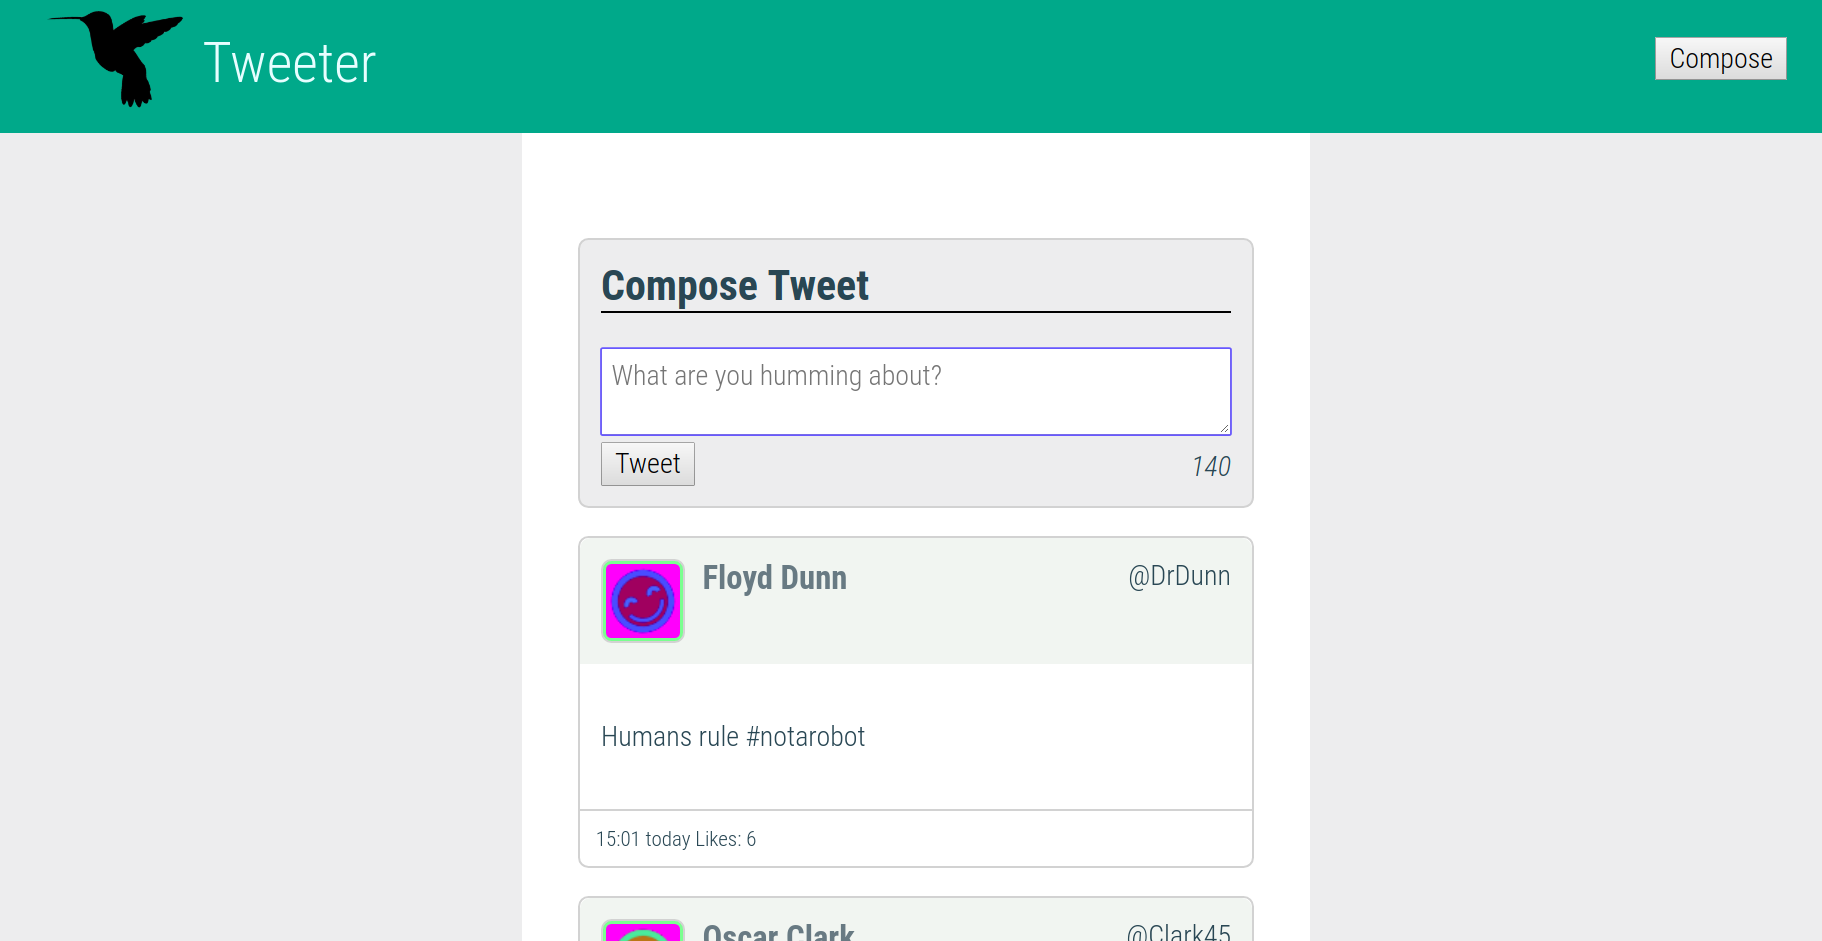
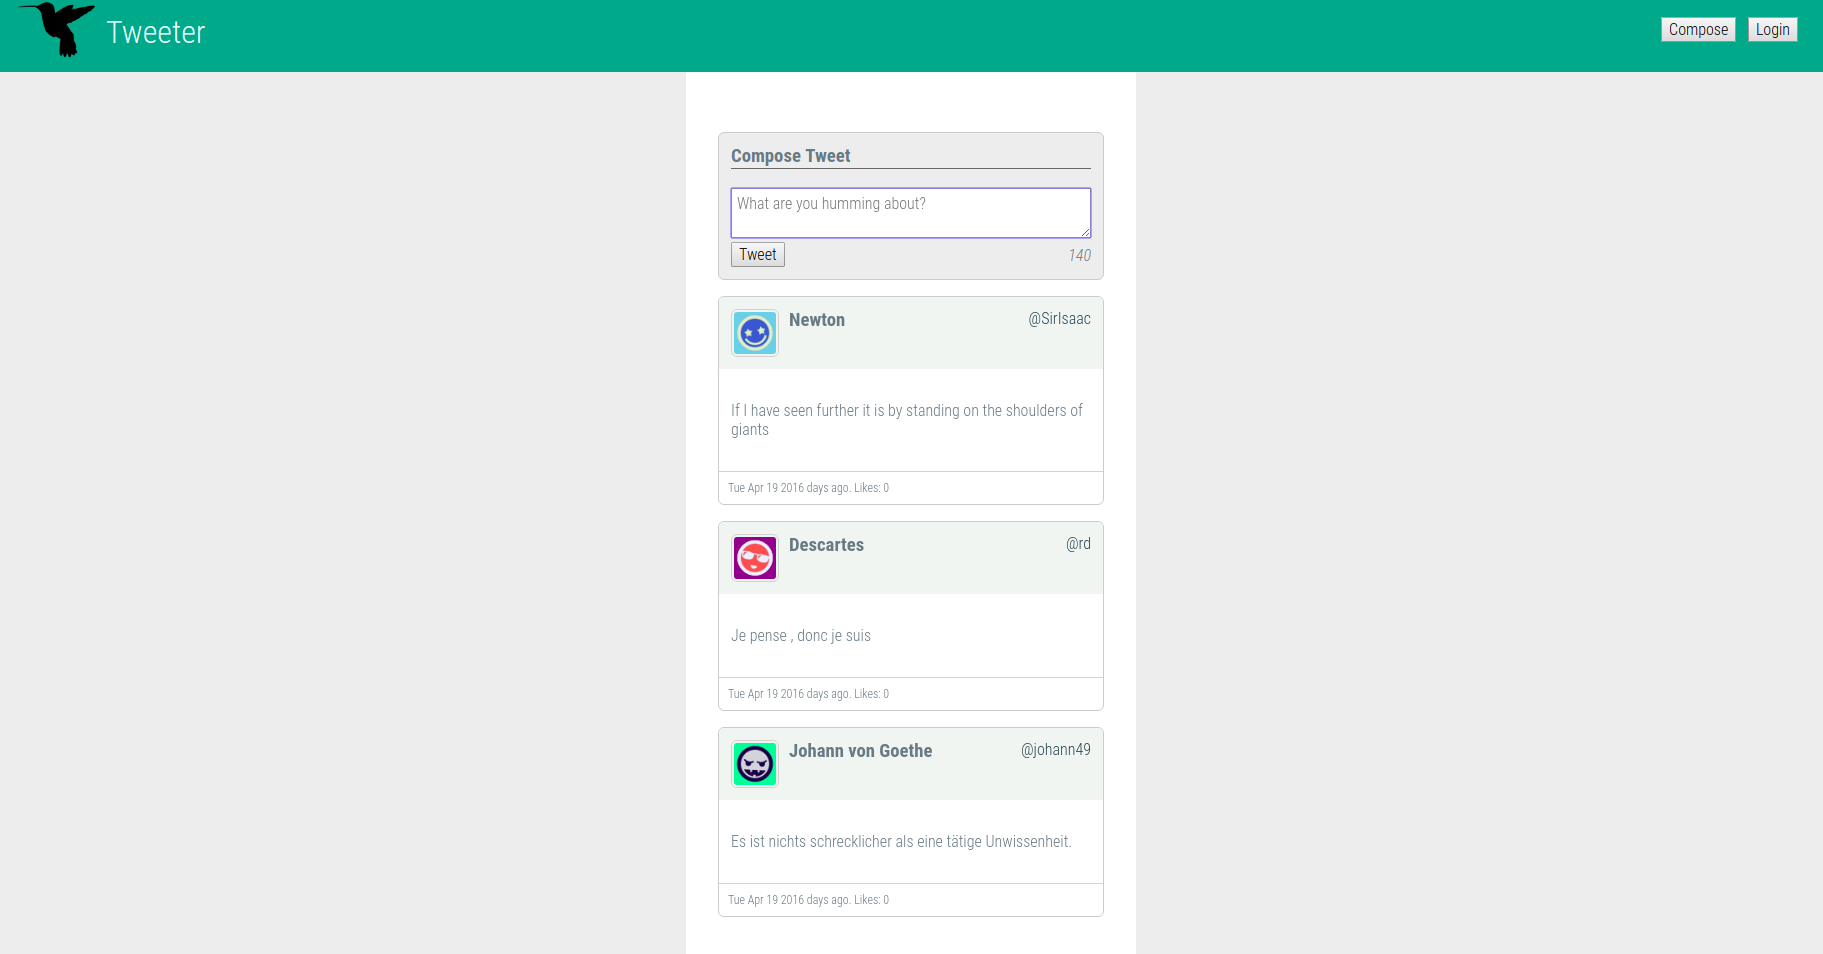
Updating readme.

diff --git a/public/styles/main.css b/public/styles/main.css
@@ -237,6 +237,8 @@ article.tweet {
  */ }
   article.tweet:hover {
     border: 1px solid #666; }
+  article.tweet:hover footer .icons i {
+    display: inline; }
   article.tweet header {
     padding: .75em;
     color: #687C83;

diff --git a/src/styles/_tweet.scss b/src/styles/_tweet.scss
@@ -17,6 +17,9 @@ article.tweet{
 	&:hover{
 		border: 1px solid $base-grey-dark;
 	}
+	&:hover footer .icons i {
+		display: inline;
+	}
 
 	/** 
  	 * Tweet Header Styles

diff --git a/README.md b/README.md
@@ -1,6 +1,8 @@
 # Tweeter Project
 
-Tweeter is a simple, single-page Twitter clone. Using AJAX techniques, Tweeter dynamically makes HTTP requests without needing a page reload. This creates a seamless user experience. To make data persistent, even in the event of a server restart, tweets are saved to a database powered by MongoDB.
+Tweeter is a simple, single-page Twitter clone. Using AJAX techniques, Tweeter dynamically makes HTTP requests without needing a page reload. This creates a seamless user experience. To make data persistent, tweets are saved to a database powered by MongoDB.
+
+Users must log in in order to tweet and like tweets. Of course, users cannot like their own tweets. User data is stored server side and accessed via express-session. To ensure account security, bcrypt handles the password hashing.
 
 #### Tweet Composer
 
